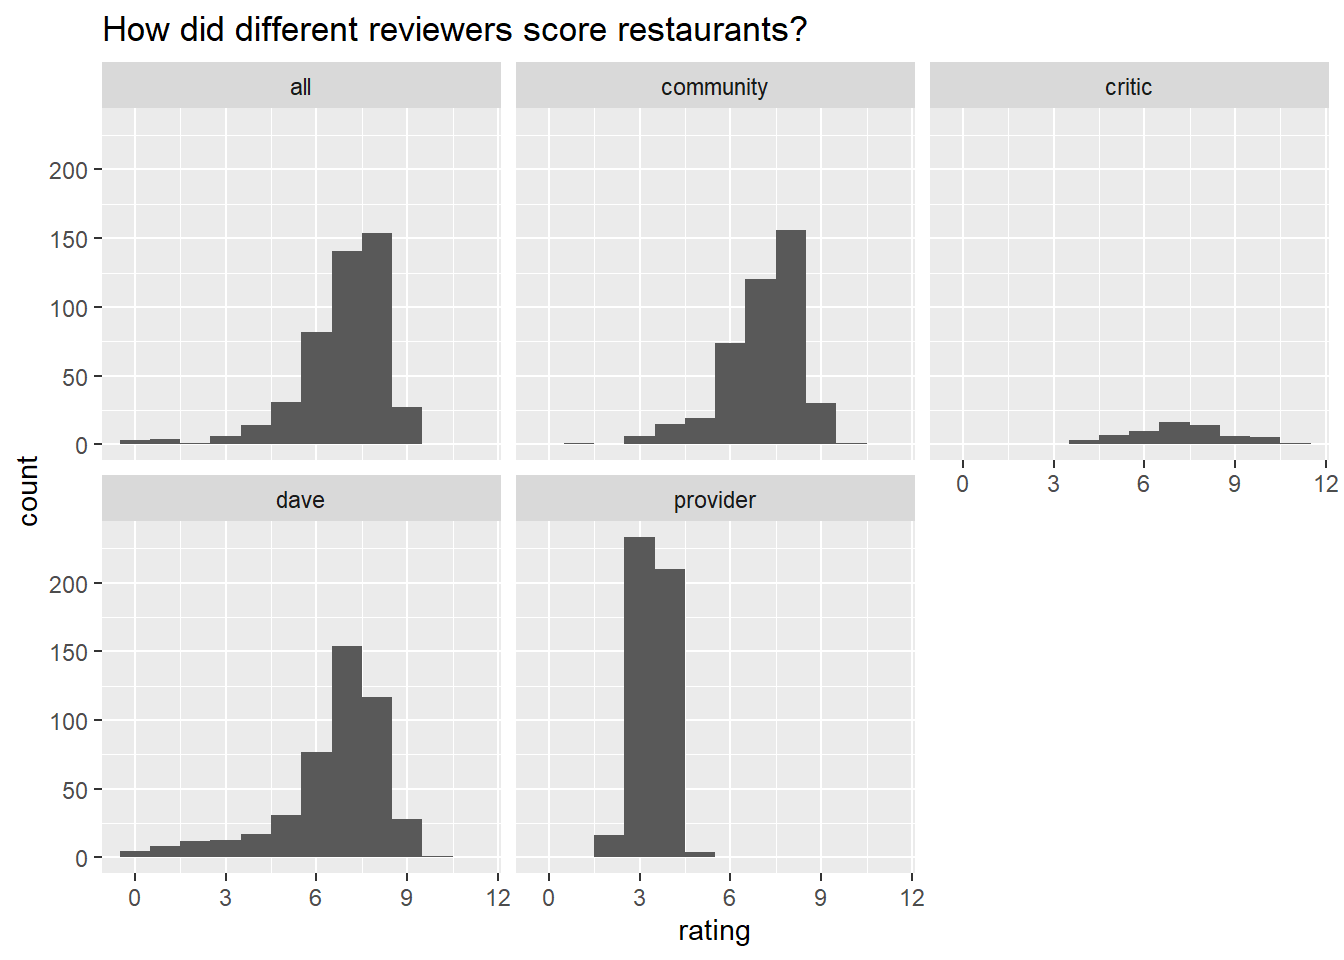
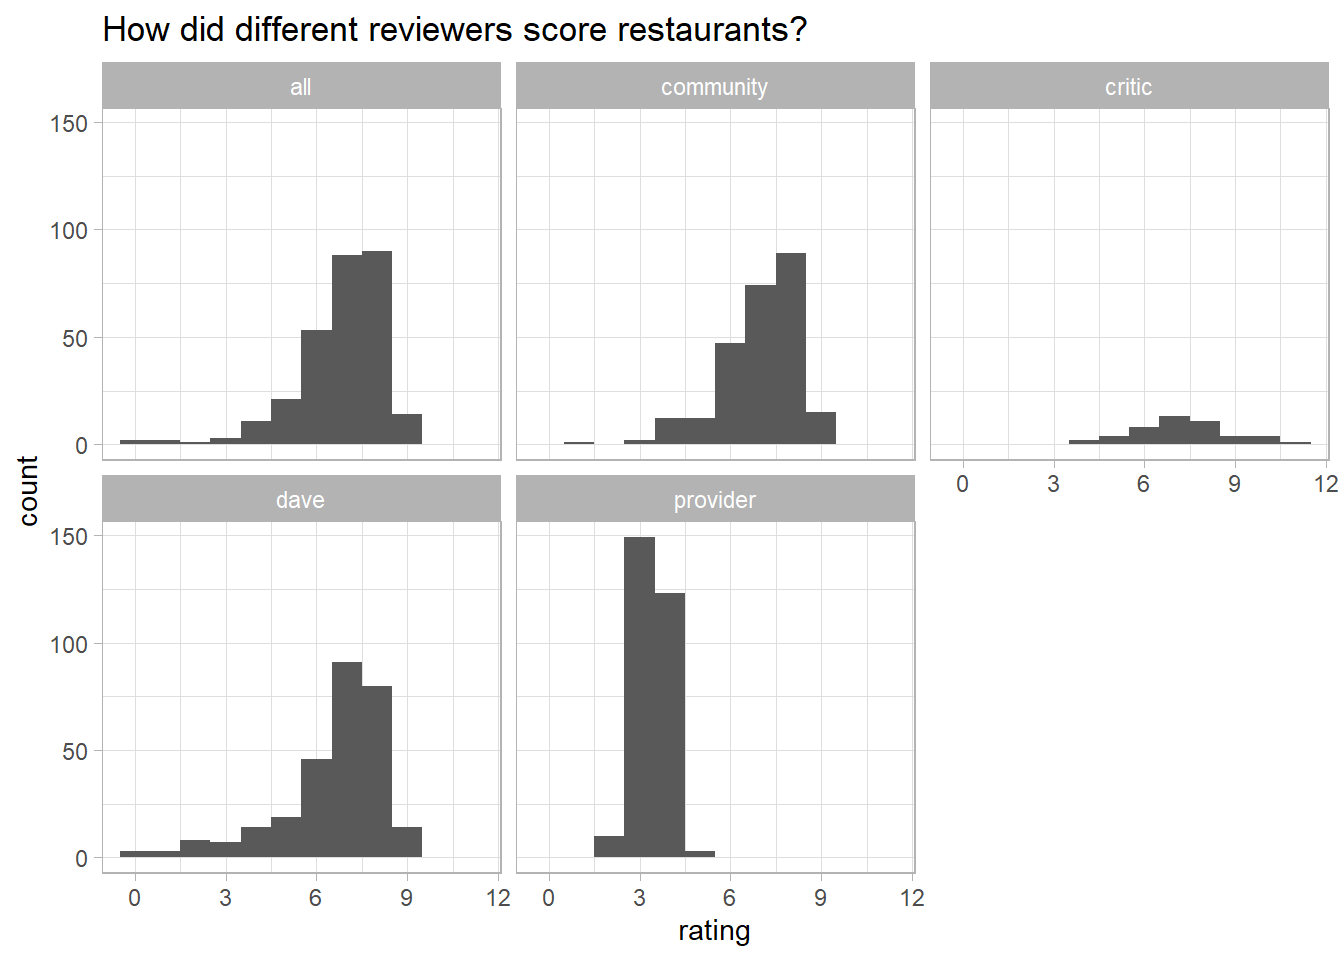
Update New York pizza post

diff --git a/public/post/tidytuesday-analyzing-new-york-pizza-restaurants/index.html b/public/post/tidytuesday-analyzing-new-york-pizza-restaurants/index.html
@@ -4,7 +4,7 @@
 <head>
   <meta http-equiv="content-type" content="text/html; charset=utf-8">
   <meta name="viewport" content="width=device-width, initial-scale=1.0">
-  <meta name="description" content="This is the description">
+  <meta name="description" content="">
   <meta name="generator" content="Hugo 0.64.0" />
 
   <title>TidyTuesday: Analyzing New York pizza restaurants &middot; Alex Cookson</title>
@@ -209,7 +209,7 @@
 
 <div class="header">
   <h1>TidyTuesday: Analyzing New York pizza restaurants</h1>
-  <h2>This is the description</h2>
+  <h2></h2>
 </div>
 <div class="content">
 
@@ -237,6 +237,8 @@
 <h2>Setup</h2>
 <p>First, let’s load the <code>tidyverse</code>, change our default <code>ggplot2</code> theme, and load the data. (I named the dataframe <strong>pizza_barstool_raw</strong> because I’ll probably add some cleaning steps and I like to have the original data on hand.)</p>
 <pre class="r"><code>library(tidyverse)
+
+theme_set(theme_light())
 
 pizza_barstool_raw &lt;- readr::read_csv(&quot;https://raw.githubusercontent.com/rfordatascience/tidytuesday/master/data/2019/2019-10-01/pizza_barstool.csv&quot;)</code></pre>
 <p> </p>
@@ -291,10 +293,12 @@ pizza_barstool_raw &lt;- readr::read_csv(&quot;https://raw.githubusercontent.com
 <p>Now that we have our research question, let’s clean the data:</p>
 <ol style="list-style-type: decimal">
 <li>Add <code>pizzeria_id</code> as unique ID field for each restaurant. This will help if there are multiple restaurants with the same name.</li>
+<li>Filter out restaurants outside of New York.</li>
 <li>Ditch location data – it doesn’t help answer our question.</li>
 <li>Rename variables that start with <code>review_stats_</code>. They’re cumbersome.</li>
 </ol>
 <pre class="r"><code>pizza_barstool &lt;- pizza_barstool_raw %&gt;%
+  filter(city %in% c(&quot;New York&quot;, &quot;New York City&quot;, &quot;Brooklyn&quot;, &quot;Bronx&quot;, &quot;Staten Island&quot;, &quot;Hoboken&quot;)) %&gt;%
   transmute(pizzeria_id = row_number(),
             pizzeria_name = name,
             price_level,
@@ -329,17 +333,67 @@ pizza_barstool_raw &lt;- readr::read_csv(&quot;https://raw.githubusercontent.com
 <pre><code>## # A tibble: 7 x 2
 ##   rating     n
 ##    &lt;dbl&gt; &lt;int&gt;
-## 1    2       2
-## 2    2.5    14
-## 3    3      78
-## 4    3.5   155
-## 5    4     162
-## 6    4.5    48
-## 7    5       4</code></pre>
+## 1    2       1
+## 2    2.5     9
+## 3    3      53
+## 4    3.5    96
+## 5    4      98
+## 6    4.5    25
+## 7    5       3</code></pre>
 <p>Yep. Let’s double the provider scores so they are on the same scale as the other reviewers</p>
 <pre class="r"><code>pizza_barstool_tidy &lt;- pizza_barstool_tidy %&gt;%
   filter(reviews &gt; 0) %&gt;%
   mutate(rating = if_else(reviewer == &quot;provider&quot;, rating * 2, rating))</code></pre>
+<p> </p>
+</div>
+<div id="visualization" class="section level2">
+<h2>Visualization</h2>
+<p>Set up for the visualization.</p>
+<pre class="r"><code>new_york_pizza &lt;- pizza_barstool_tidy %&gt;%
+  filter(reviewer != &quot;all&quot;) %&gt;%
+  mutate(overall_median_rating = median(rating)) %&gt;%
+  group_by(pizzeria_id, pizzeria_name, overall_median_rating, price_level) %&gt;%
+  summarise(avg_rating = weighted.mean(rating, reviews)) %&gt;%
+  ungroup() %&gt;%
+  mutate(diff_from_median = avg_rating - overall_median_rating)
+
+new_york_extremes &lt;- new_york_pizza %&gt;%
+  mutate(direction = ifelse(diff_from_median &gt; 0, &quot;higher&quot;, &quot;lower&quot;)) %&gt;%
+  group_by(price_level, direction) %&gt;%
+  top_n(5, wt = abs(diff_from_median)) %&gt;%
+  ungroup()</code></pre>
+<p> </p>
+<p>Visualization itself</p>
+<pre class="r"><code>library(tidytext) # Needed for reorder_within and scale_x_reordered functions
+
+new_york_extremes %&gt;%
+  mutate(price_level = case_when(price_level == 0 ~ &quot;$&quot;,
+                                 price_level == 1 ~ &quot;$$&quot;,
+                                 price_level == 2 ~ &quot;$$$&quot;,
+                                 price_level == 3 ~ &quot;$$$$&quot;,
+                                 TRUE ~ NA_character_),
+         pizzeria_name = reorder_within(pizzeria_name, diff_from_median, price_level)) %&gt;%
+  ggplot(aes(pizzeria_name, diff_from_median, fill = direction)) +
+  geom_col() +
+  coord_flip() +
+  facet_wrap(~ price_level, scales = &quot;free_y&quot;) +
+  scale_x_reordered() +
+  scale_fill_manual(values = c(&quot;#3288bd&quot;, &quot;#d53e4f&quot;)) + # From colorbrewer2.org
+  theme(legend.position = &quot;none&quot;,
+        panel.grid.minor = element_blank(),
+        strip.background = element_rect(fill = NA),
+        strip.text = element_text(colour = &quot;black&quot;, face = &quot;bold&quot;, size = 12)) +
+  labs(title = &quot;What&#39;s the best and worst pizza in New York?&quot;,
+       subtitle = &quot;Broken down by price level&quot;,
+       x = &quot;&quot;,
+       y = &quot;Score difference from the median&quot;,
+       caption = &quot;Based on Barstool, community, critic, and Dave reviews&quot;)</code></pre>
+<p><img src="/post/2019-09-30-tidytuesday-analyzing-new-york-pizza-restaurants_files/figure-html/unnamed-chunk-9-1.png" width="672" />
+ </p>
+</div>
+<div id="conclusion" class="section level2">
+<h2>Conclusion</h2>
+<p>Conclusion.</p>
 </div>
 
   

diff --git a/content/post/2019-09-30-tidytuesday-analyzing-new-york-pizza-restaurants.html b/content/post/2019-09-30-tidytuesday-analyzing-new-york-pizza-restaurants.html
@@ -2,7 +2,7 @@
 title: 'TidyTuesday: Analyzing New York pizza restaurants'
 author: Alex Cookson
 date: '2019-09-30'
-description: This is the description
+description: 
 slug: tidytuesday-analyzing-new-york-pizza-restaurants
 ---
 
@@ -14,6 +14,8 @@ slug: tidytuesday-analyzing-new-york-pizza-restaurants
 <h2>Setup</h2>
 <p>First, let’s load the <code>tidyverse</code>, change our default <code>ggplot2</code> theme, and load the data. (I named the dataframe <strong>pizza_barstool_raw</strong> because I’ll probably add some cleaning steps and I like to have the original data on hand.)</p>
 <pre class="r"><code>library(tidyverse)
+
+theme_set(theme_light())
 
 pizza_barstool_raw &lt;- readr::read_csv(&quot;https://raw.githubusercontent.com/rfordatascience/tidytuesday/master/data/2019/2019-10-01/pizza_barstool.csv&quot;)</code></pre>
 <p> </p>
@@ -68,10 +70,12 @@ pizza_barstool_raw &lt;- readr::read_csv(&quot;https://raw.githubusercontent.com
 <p>Now that we have our research question, let’s clean the data:</p>
 <ol style="list-style-type: decimal">
 <li>Add <code>pizzeria_id</code> as unique ID field for each restaurant. This will help if there are multiple restaurants with the same name.</li>
+<li>Filter out restaurants outside of New York.</li>
 <li>Ditch location data – it doesn’t help answer our question.</li>
 <li>Rename variables that start with <code>review_stats_</code>. They’re cumbersome.</li>
 </ol>
 <pre class="r"><code>pizza_barstool &lt;- pizza_barstool_raw %&gt;%
+  filter(city %in% c(&quot;New York&quot;, &quot;New York City&quot;, &quot;Brooklyn&quot;, &quot;Bronx&quot;, &quot;Staten Island&quot;, &quot;Hoboken&quot;)) %&gt;%
   transmute(pizzeria_id = row_number(),
             pizzeria_name = name,
             price_level,
@@ -106,15 +110,65 @@ pizza_barstool_raw &lt;- readr::read_csv(&quot;https://raw.githubusercontent.com
 <pre><code>## # A tibble: 7 x 2
 ##   rating     n
 ##    &lt;dbl&gt; &lt;int&gt;
-## 1    2       2
-## 2    2.5    14
-## 3    3      78
-## 4    3.5   155
-## 5    4     162
-## 6    4.5    48
-## 7    5       4</code></pre>
+## 1    2       1
+## 2    2.5     9
+## 3    3      53
+## 4    3.5    96
+## 5    4      98
+## 6    4.5    25
+## 7    5       3</code></pre>
 <p>Yep. Let’s double the provider scores so they are on the same scale as the other reviewers</p>
 <pre class="r"><code>pizza_barstool_tidy &lt;- pizza_barstool_tidy %&gt;%
   filter(reviews &gt; 0) %&gt;%
   mutate(rating = if_else(reviewer == &quot;provider&quot;, rating * 2, rating))</code></pre>
+<p> </p>
+</div>
+<div id="visualization" class="section level2">
+<h2>Visualization</h2>
+<p>Set up for the visualization.</p>
+<pre class="r"><code>new_york_pizza &lt;- pizza_barstool_tidy %&gt;%
+  filter(reviewer != &quot;all&quot;) %&gt;%
+  mutate(overall_median_rating = median(rating)) %&gt;%
+  group_by(pizzeria_id, pizzeria_name, overall_median_rating, price_level) %&gt;%
+  summarise(avg_rating = weighted.mean(rating, reviews)) %&gt;%
+  ungroup() %&gt;%
+  mutate(diff_from_median = avg_rating - overall_median_rating)
+
+new_york_extremes &lt;- new_york_pizza %&gt;%
+  mutate(direction = ifelse(diff_from_median &gt; 0, &quot;higher&quot;, &quot;lower&quot;)) %&gt;%
+  group_by(price_level, direction) %&gt;%
+  top_n(5, wt = abs(diff_from_median)) %&gt;%
+  ungroup()</code></pre>
+<p> </p>
+<p>Visualization itself</p>
+<pre class="r"><code>library(tidytext) # Needed for reorder_within and scale_x_reordered functions
+
+new_york_extremes %&gt;%
+  mutate(price_level = case_when(price_level == 0 ~ &quot;$&quot;,
+                                 price_level == 1 ~ &quot;$$&quot;,
+                                 price_level == 2 ~ &quot;$$$&quot;,
+                                 price_level == 3 ~ &quot;$$$$&quot;,
+                                 TRUE ~ NA_character_),
+         pizzeria_name = reorder_within(pizzeria_name, diff_from_median, price_level)) %&gt;%
+  ggplot(aes(pizzeria_name, diff_from_median, fill = direction)) +
+  geom_col() +
+  coord_flip() +
+  facet_wrap(~ price_level, scales = &quot;free_y&quot;) +
+  scale_x_reordered() +
+  scale_fill_manual(values = c(&quot;#3288bd&quot;, &quot;#d53e4f&quot;)) + # From colorbrewer2.org
+  theme(legend.position = &quot;none&quot;,
+        panel.grid.minor = element_blank(),
+        strip.background = element_rect(fill = NA),
+        strip.text = element_text(colour = &quot;black&quot;, face = &quot;bold&quot;, size = 12)) +
+  labs(title = &quot;What&#39;s the best and worst pizza in New York?&quot;,
+       subtitle = &quot;Broken down by price level&quot;,
+       x = &quot;&quot;,
+       y = &quot;Score difference from the median&quot;,
+       caption = &quot;Based on Barstool, community, critic, and Dave reviews&quot;)</code></pre>
+<p><img src="/post/2019-09-30-tidytuesday-analyzing-new-york-pizza-restaurants_files/figure-html/unnamed-chunk-9-1.png" width="672" />
+ </p>
+</div>
+<div id="conclusion" class="section level2">
+<h2>Conclusion</h2>
+<p>Conclusion.</p>
 </div>

diff --git a/content/about.html b/content/about.html
@@ -1,5 +1,5 @@
 ---
-date: "2014-04-09"
+date: ""
 description: ""
 sidemenu: "true"
 title: About me
@@ -8,6 +8,6 @@ title: About me
 
 
 <p>Hi! I’m Alex. I love data science, cycling, and cats.</p>
-<p>I currently work at the <a href="https://www.mint.ca/">Royal Canadian Mint</a>, where I help the marketing team make the most of their data. I’ve worked a bunch of machine learning and business analytics projects, including predictive models for customer churn, recommendation engines, and self-service dashboards.</p>
+<p>I currently work at the <a href="https://www.mint.ca/">Royal Canadian Mint</a>, where I help the marketing team make the most of their data. I’ve worked on many machine learning and business analytics projects, including predictive models for customer churn, recommendation engines, and self-service dashboards.</p>
 <p>I have Master’s degrees in International Business from HEC Paris and Queen’s University. I also earned my Bachelor’s degree from Queen’s University, where I studied commerce.</p>
-<p>Feel free to check out some of my <a href="/post/">posts</a> or check me out on <a href="https://twitter.com/alexcookson">Twitter</a>!</p>
+<p>Feel free to look at my <a href="/post/">posts</a> or check me out on <a href="https://twitter.com/alexcookson">Twitter</a>!</p>

diff --git a/public/about/index.html b/public/about/index.html
@@ -216,9 +216,9 @@
 
 
 <p>Hi! I’m Alex. I love data science, cycling, and cats.</p>
-<p>I currently work at the <a href="https://www.mint.ca/">Royal Canadian Mint</a>, where I help the marketing team make the most of their data. I’ve worked a bunch of machine learning and business analytics projects, including predictive models for customer churn, recommendation engines, and self-service dashboards.</p>
+<p>I currently work at the <a href="https://www.mint.ca/">Royal Canadian Mint</a>, where I help the marketing team make the most of their data. I’ve worked on many machine learning and business analytics projects, including predictive models for customer churn, recommendation engines, and self-service dashboards.</p>
 <p>I have Master’s degrees in International Business from HEC Paris and Queen’s University. I also earned my Bachelor’s degree from Queen’s University, where I studied commerce.</p>
-<p>Feel free to check out some of my <a href="/post/">posts</a> or check me out on <a href="https://twitter.com/alexcookson">Twitter</a>!</p>
+<p>Feel free to look at my <a href="/post/">posts</a> or check me out on <a href="https://twitter.com/alexcookson">Twitter</a>!</p>
 
 </div>
 

diff --git a/public/index.html b/public/index.html
@@ -217,7 +217,7 @@
 
 <div class="header">
   <h1>Alex Cookson</h1>
-  <h2>Home Page Subtitle</h2>
+  <h2></h2>
 </div>
 
 <div class="content">
